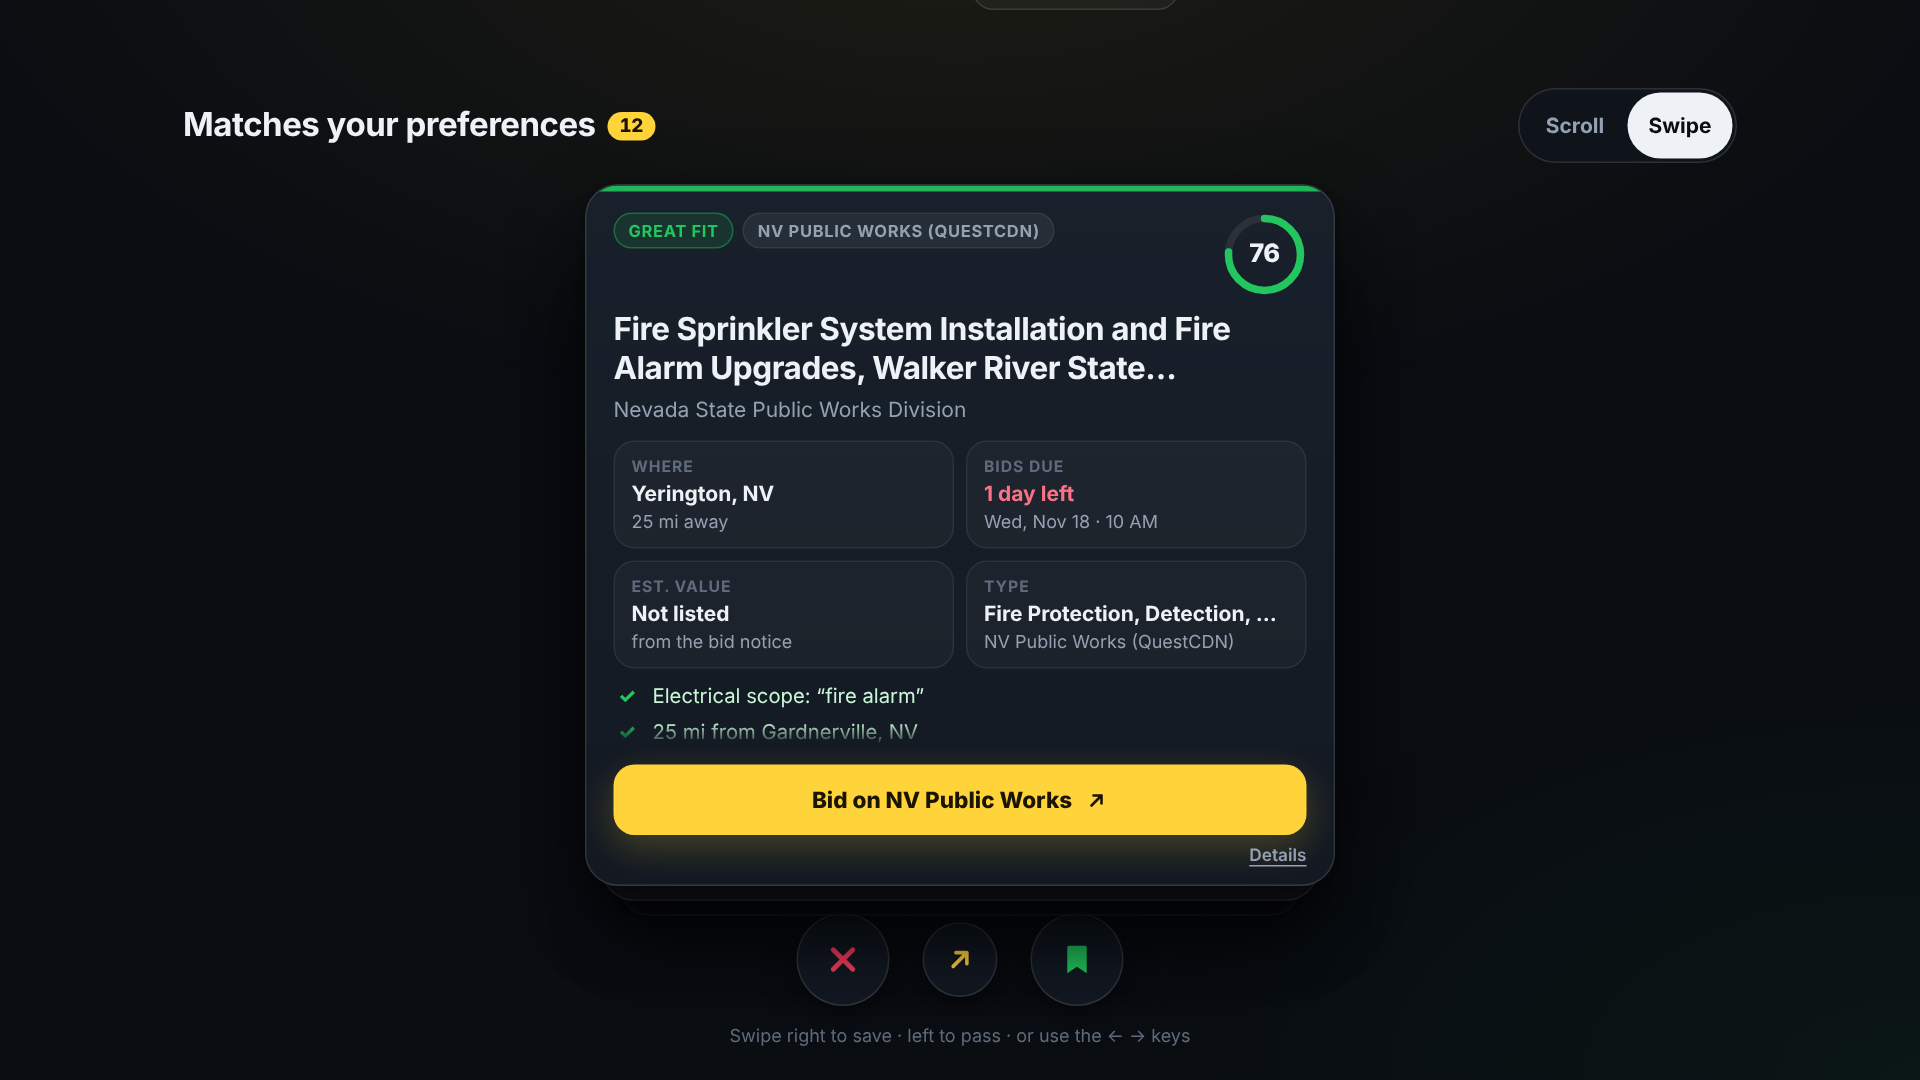
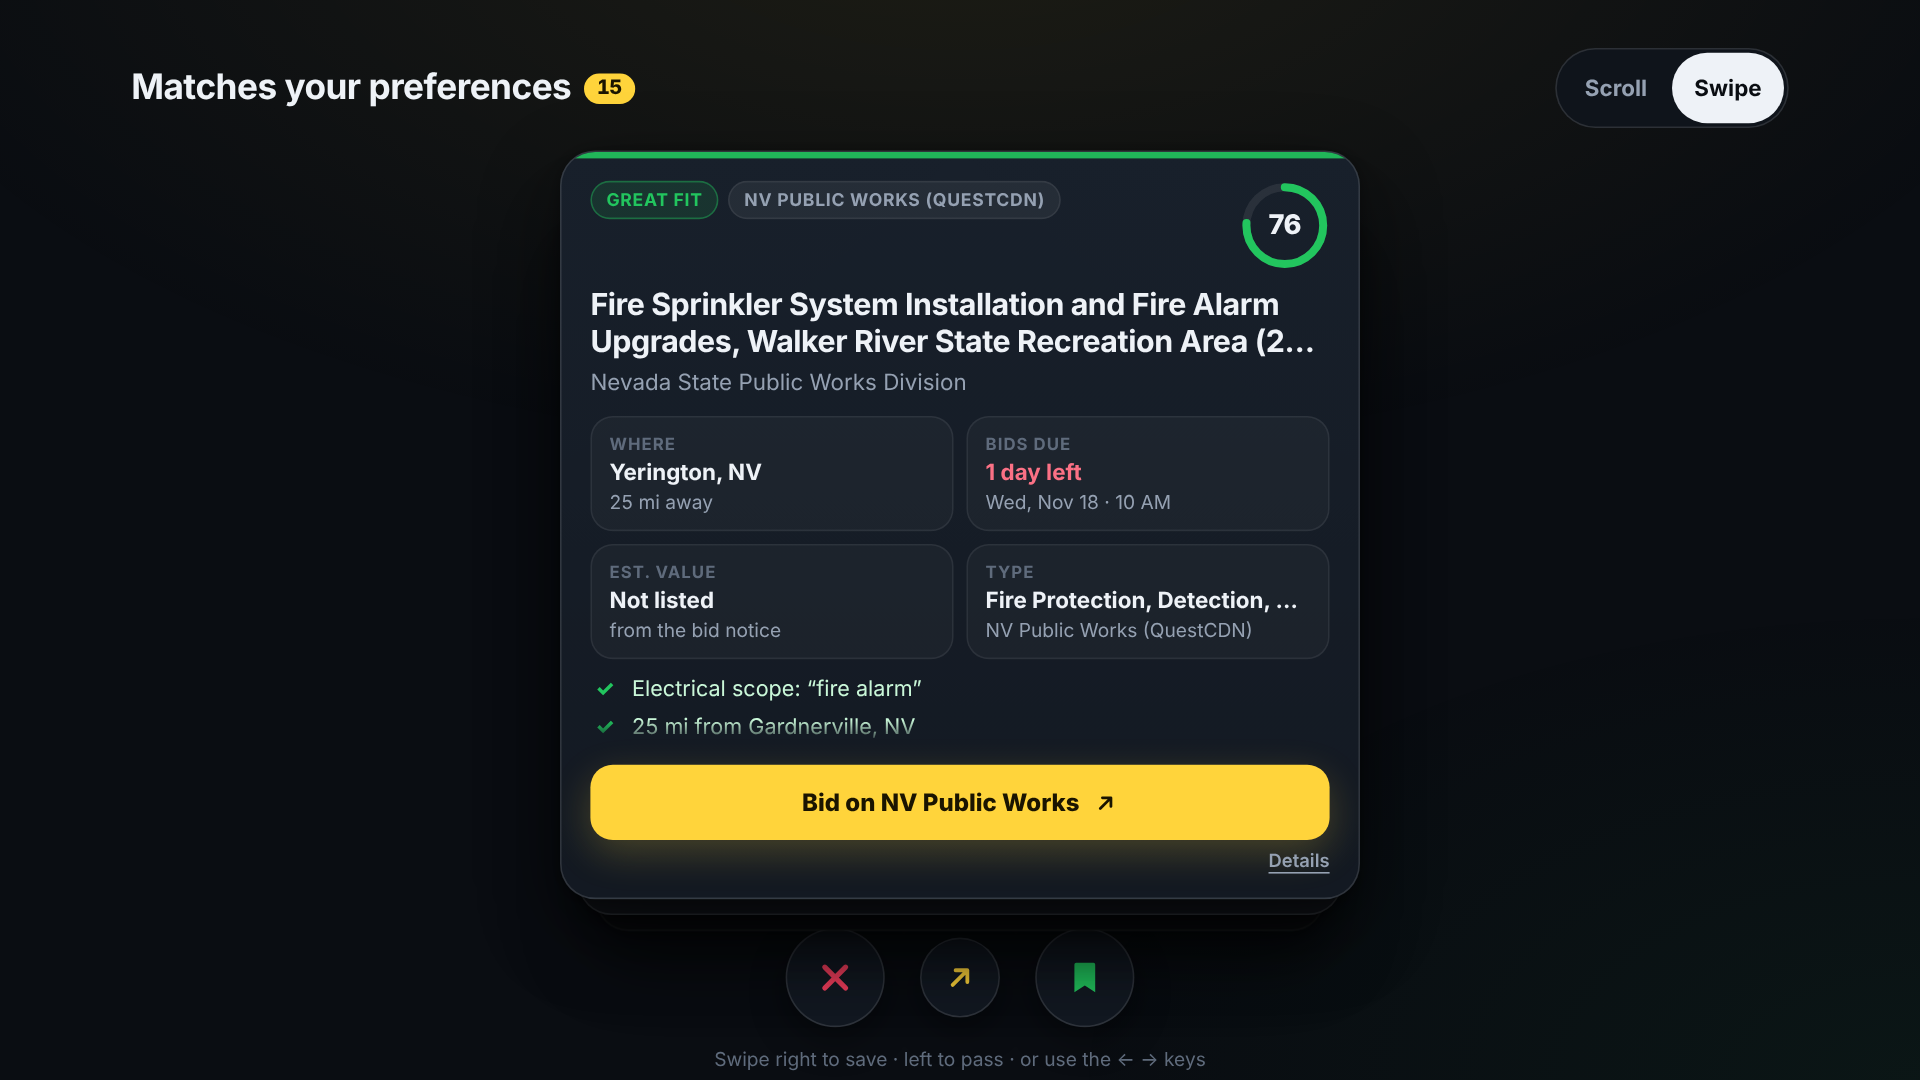
Chrome's pre-release push host, two Store screenshots retaken, a scan time limit; ask for the second security scan
- src/realtime/push.ts: jmt17.google.com joins PUSH_SERVICE_HOSTS (one exact host). Chromium's source names it as
  the staging push endpoint, so a pre-release Chrome was refused by the new allowlist. Test: that host passes,
  google.com and look-alikes do not.
- docs/store/screenshots: 01 (swipe card) and 08 (Market) re-taken on the same local data so no card is cut at an
  edge; captions.md says how.
- stackhawk.yml: hawk.scan.maxDurationMinutes 80, so the scan ends inside the job's 120 minutes and its findings
  are read back (the first run was cut off at the limit with nothing to read).
- .github/hawkscan-run: asks for the second scan, on the fixed code.

Checked: npm run typecheck, npm test (2,500 passed, 10 skipped), npm run build; hawk validate config.

Claude-Session: https://claude.ai/code/session_01MhXJqWxLCa5QXdbAVFVekG

diff --git a/src/realtime/push.ts b/src/realtime/push.ts
@@ -51,6 +51,8 @@ const decodedLength = (value: unknown): number => (typeof value === 'string' && 
  * A host matches an entry exactly or on a dot boundary ("wns2-by3p.notify.windows.com" matches "notify.windows.com").
  *   fcm.googleapis.com                  Chrome, Android, Samsung Internet, Opera
  *   android.googleapis.com              older Chrome endpoints
+ *   jmt17.google.com                    Chrome's pre-release builds: Chromium's source names it as the staging
+ *                                       push endpoint (components/push_messaging/push_messaging_constants.cc)
  *   updates.push.services.mozilla.com   Firefox
  *   push.apple.com                      Safari and the iPhone home-screen app (web.push.apple.com)
  *   notify.windows.com                  Edge (wns2-*.notify.windows.com)
@@ -58,7 +60,8 @@ const decodedLength = (value: unknown): number => (typeof value === 'string' && 
  * added here.
  */
 export const PUSH_SERVICE_HOSTS: readonly string[] = [
-  'fcm.googleapis.com', 'android.googleapis.com', 'updates.push.services.mozilla.com', 'push.apple.com', 'notify.windows.com',
+  'fcm.googleapis.com', 'android.googleapis.com', 'jmt17.google.com', 'updates.push.services.mozilla.com', 'push.apple.com',
+  'notify.windows.com',
 ];
 
 /** Lower-cased, one trailing dot dropped, then an exact or dot-boundary match against the list. */

diff --git a/test/realtime.test.ts b/test/realtime.test.ts
@@ -550,6 +550,9 @@ describe('push: subscriptions, payloads and the web-push request', () => {
     ]) expect(at(bad!), bad).toEqual({ ok: false, reason: 'host', host });
     expect(at('https://169.254.169.254/x')).toEqual({ ok: false, reason: 'host', host: '169.254.169.254' });
     expect(isPushServiceHost('web.push.apple.com.')).toBe(true);
+    expect(isPushServiceHost('jmt17.google.com')).toBe(true); // Chrome's pre-release builds (named in Chromium's source)
+    expect(isPushServiceHost('google.com')).toBe(false); // the one host, not the whole domain
+    expect(isPushServiceHost('evil-jmt17.google.com')).toBe(false);
     expect(isPushServiceHost('push.example.com', TEST_PUSH_HOSTS)).toBe(true); // only when a test hands the list over
   });
 

diff --git a/CLAUDE.md b/CLAUDE.md
@@ -389,8 +389,8 @@ test/              sources.test.ts (parsers) · fetch.test.ts (each fetch(): log
   a sign-up remembers the address 30 days. Fail-open: a broken table logs one line and lets the attempt through.
 - Push subscriptions must be on a known push service host (PUSH_SERVICE_HOSTS in src/realtime/push.ts: exact or a
   dot-boundary suffix); tests add `push.example.com` through `AppConfig.pushHosts`, which no env variable sets. A new
-  push service (or a Chrome endpoint host we never saw, like jmt17.google.com) is refused until it is added there;
-  the route logs the refused host, never the endpoint.
+  push service (or an endpoint host we never saw) is refused until it is added there; the route logs the refused
+  host, never the endpoint. jmt17.google.com is on the list: Chromium's source names it (pre-release Chrome).
 - iPhone facts come from `navigator.standalone` (true = Home Screen app, false = a Safari tab, undefined = not iOS),
   never the user agent. A Safari tab cannot get web push at all; old iOS in the installed app = no PushManager.
   `pushManager.subscribe` must follow the tap with nothing awaited but requestPermission (the registration is fetched

diff --git a/docs/SECURITY-SCAN.md b/docs/SECURITY-SCAN.md
@@ -96,8 +96,9 @@ Accepted for now:
   password three times from a new address while their e-mail is being attacked waits out the window.
 - **Someone on the owner's own address guessing the owner's e-mail** uses up that address's 10 tries for it (the
   pair counter is per e-mail and address), so the owner there waits too.
-- **The push allowlist might refuse a real endpoint host** not on the list (Chrome builds have been reported to use
-  `jmt17.google.com`; not confirmed). The subscribe route logs the refused host: check the log after deploy.
+- **The push allowlist might refuse a real endpoint host** not on the list. `jmt17.google.com` was added on
+  2026-11-16: Chromium's source names it as the staging push endpoint (pre-release Chrome builds), so it is a real
+  Google push host. The subscribe route logs any other refused host: check the log after a deploy.
 - **A report notifies nobody.** It is stored and logged (`jobs: a … was reported`); the operator reads them with
   `GET /api/admin/jobs/reports`. The copy says only that reports go to BidSwipe.
 - **The scan's push example** (`docs/api/openapi.yaml`) uses a made-up host, so the scan now sees the 400; the

diff --git a/docs/store/captions.md b/docs/store/captions.md
@@ -44,5 +44,6 @@ Market: monthly government price indexes for materials and wages for the trades,
   "Example Lighting Co.") and example jobs whose titles start "Example job:". There is no real customer data in
   them, and each caption says "Example job shown". To close the example job, the local server's clock was moved
   forward one day, so those screens read Nov 17.
-- Desktop layout at 1280×720 CSS pixels and device scale 1.5 (03 and 08 at 1536×864 and scale 1.25, so more of
-  the sheet fits). No logos, frames or marketing text were added.
+- Desktop layout at 1280×720 CSS pixels and device scale 1.5 (03 at 1536×864 and scale 1.25, so more of the sheet
+  fits; 01 at 1200×675 and scale 1.6 and 08 at 1600×900 and scale 1.2, re-taken later the same day so no card is cut
+  at an edge). No logos, frames or marketing text were added.
